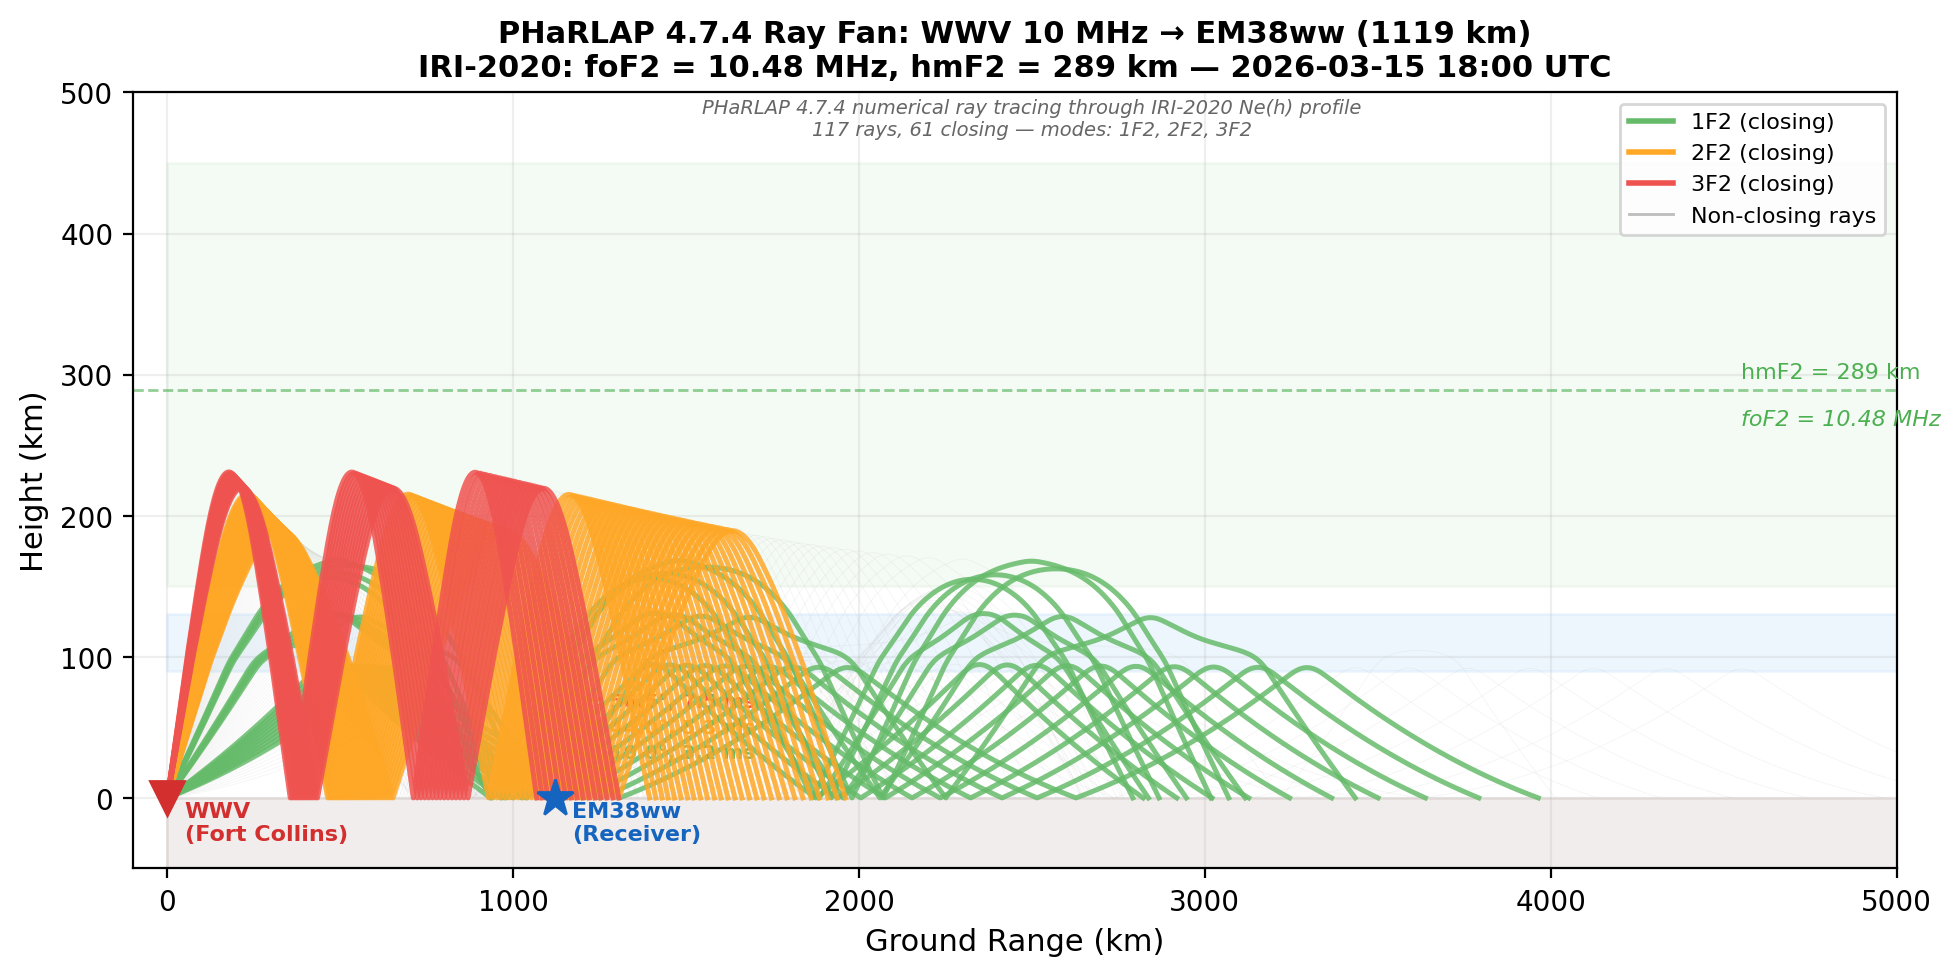
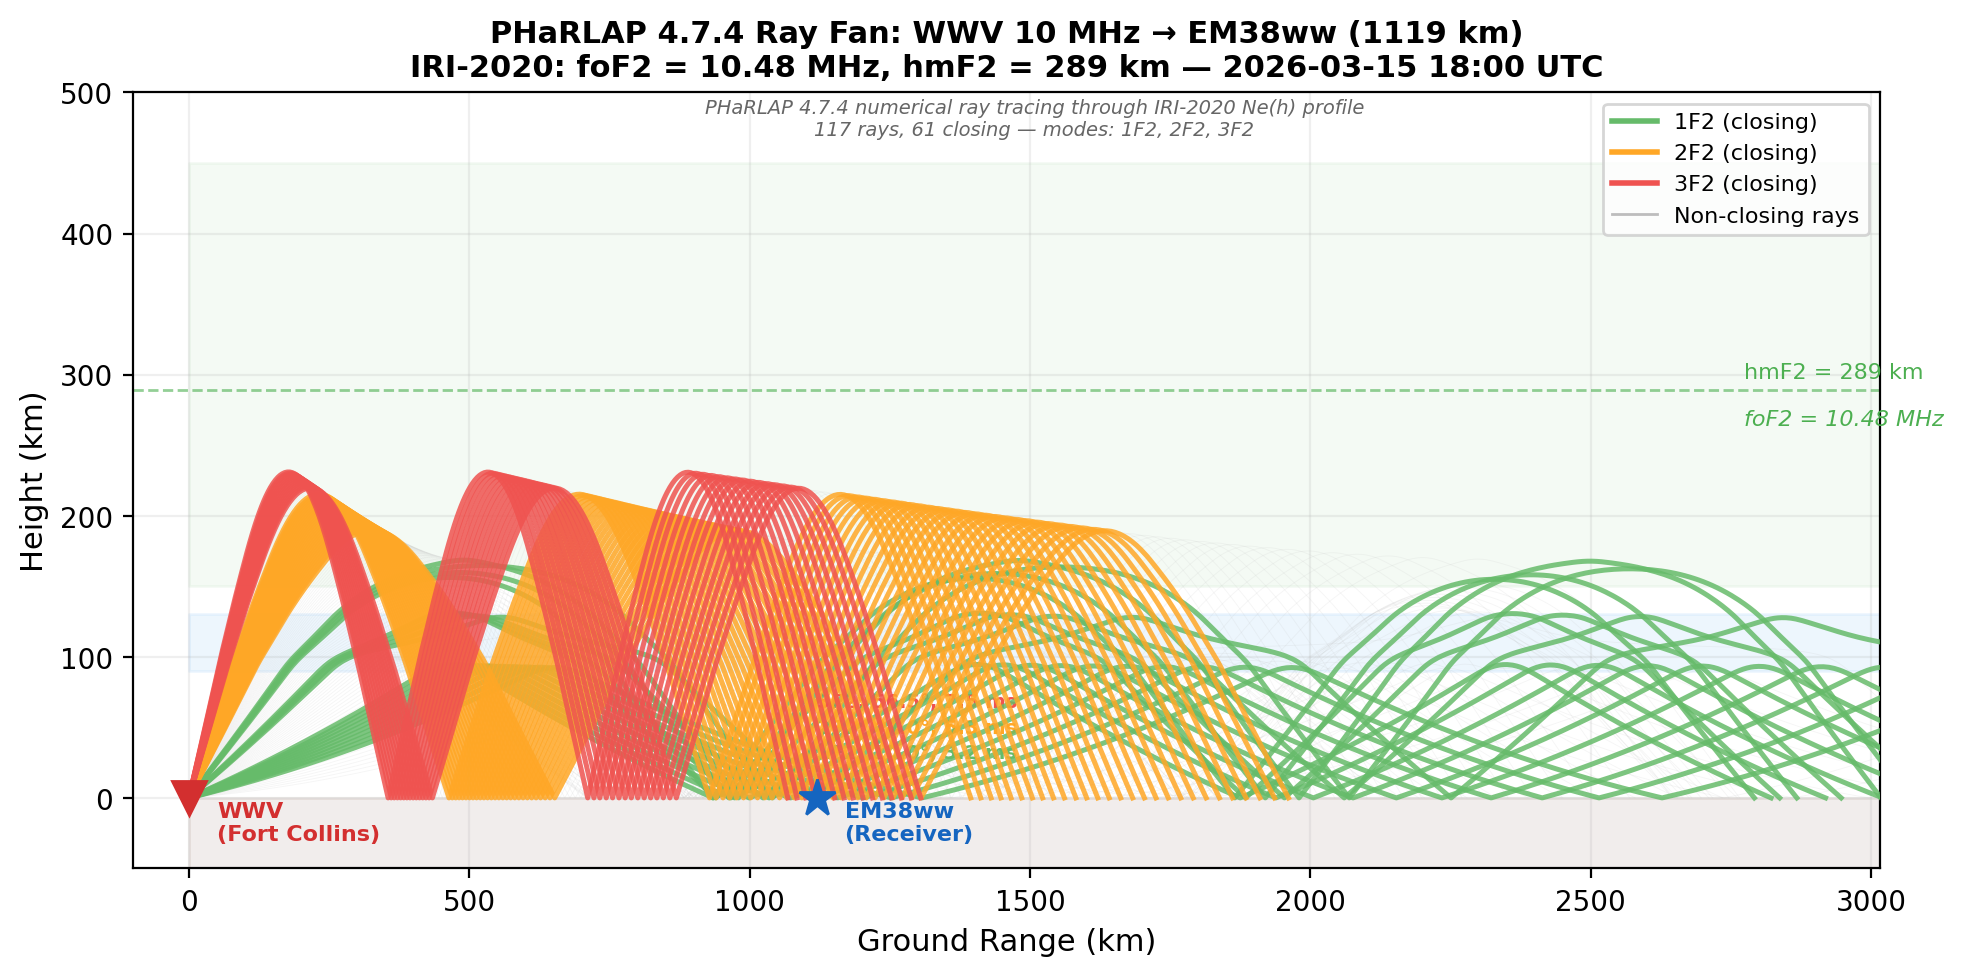
Fig 6: dynamic x-axis from ray extent, receiver centered in plot
Was hardcoded to 5000 km with receiver at 1119 km (wasting 3/4 of plot).
Now x_max = max(target_km*1.6, max_ray_range*0.55, 1800 km).

diff --git a/docs/figures/generate_qex_figures.py b/docs/figures/generate_qex_figures.py
@@ -888,14 +888,22 @@ def generate_fig6():
     fig, ax = plt.subplots(figsize=(10, 5))
     R_E = 6371.0
 
+    # ── Determine x-axis extent from ray data ──
+    max_gnd = 0.0
+    for path in paths:
+        gnd = np.asarray(path.get('ground_range', []))
+        if gnd.size > 0:
+            max_gnd = max(max_gnd, float(gnd.max()))
+    x_max = max(target_km * 1.6, max_gnd * 0.55, 1800.0)
+
     # ── Ionospheric layer shading ──
-    x_range = np.linspace(0, 5000, 500)
+    x_range = np.linspace(0, x_max, 500)
     ax.fill_between(x_range, -50, 0, color='#8D6E63', alpha=0.12)
     ax.fill_between(x_range, 90, 130, color='#BBDEFB', alpha=0.25)
     ax.fill_between(x_range, 150, 450, color='#C8E6C9', alpha=0.20)
     ax.axhline(hmF2, color='#4CAF50', linewidth=1, linestyle='--', alpha=0.6)
-    ax.text(4550, hmF2 + 8, f'hmF2 = {hmF2:.0f} km', fontsize=8, color='#4CAF50')
-    ax.text(4550, hmF2 - 25, f'foF2 = {foF2:.2f} MHz', fontsize=8,
+    ax.text(x_max * 0.92, hmF2 + 8, f'hmF2 = {hmF2:.0f} km', fontsize=8, color='#4CAF50')
+    ax.text(x_max * 0.92, hmF2 - 25, f'foF2 = {foF2:.2f} MHz', fontsize=8,
             color='#4CAF50', fontstyle='italic')
 
     # ── Classify and plot each ray ──
@@ -969,14 +977,14 @@ def generate_fig6():
                  f'IRI-2020: foF2 = {foF2:.2f} MHz, hmF2 = {hmF2:.0f} km — '
                  f'{date_label} 18:00 UTC',
                  fontsize=11, fontweight='bold')
-    ax.set_xlim(-100, 5000)
+    ax.set_xlim(-100, x_max)
     ax.set_ylim(-50, 500)
     ax.grid(True, alpha=0.2)
 
     n_closing = len(closing_info)
     modes_found = sorted(set(c[1] for c in closing_info))
     modes_str = ', '.join(f'{n}F2' for n in modes_found)
-    ax.text(2500, 470,
+    ax.text(x_max * 0.5, 470,
             f'PHaRLAP 4.7.4 numerical ray tracing through IRI-2020 Ne(h) profile\n'
             f'{len(elevs)} rays, {n_closing} closing — modes: {modes_str}',
             fontsize=7, ha='center', fontstyle='italic', color='#666')